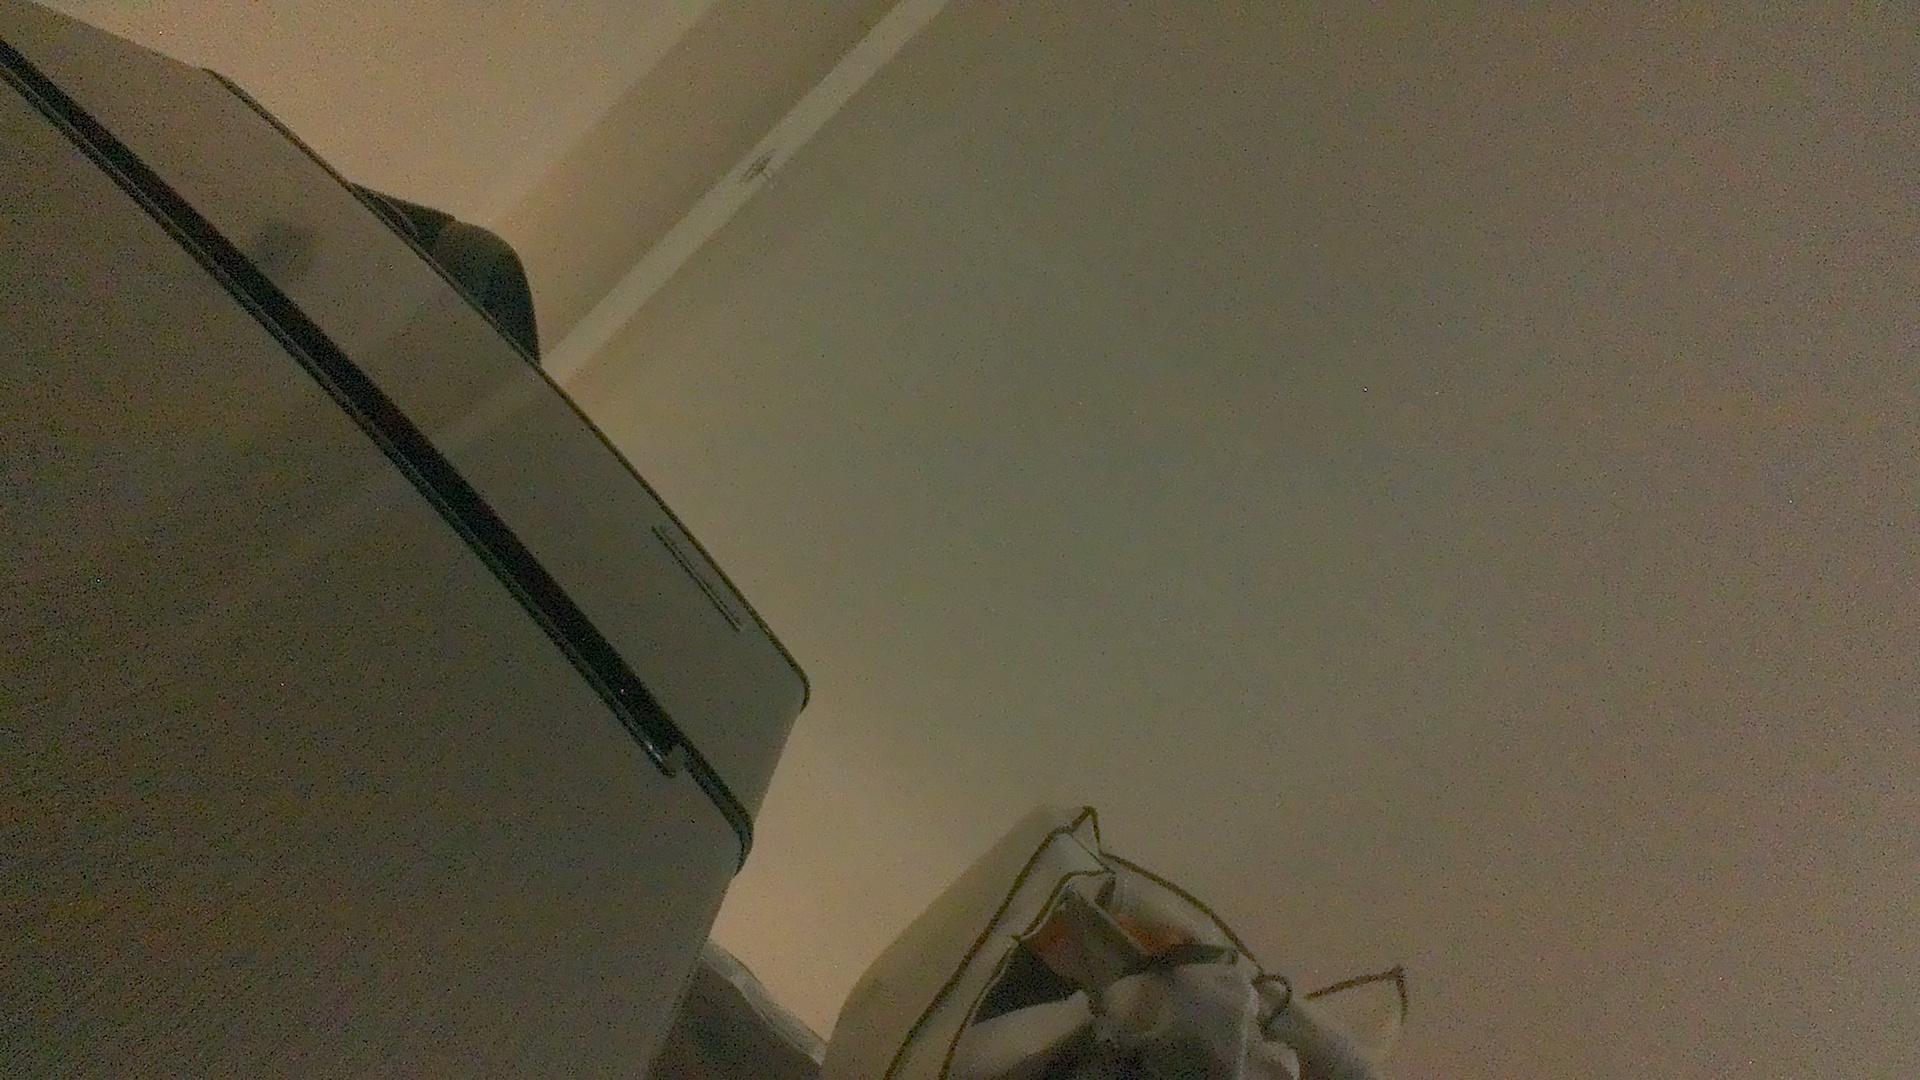
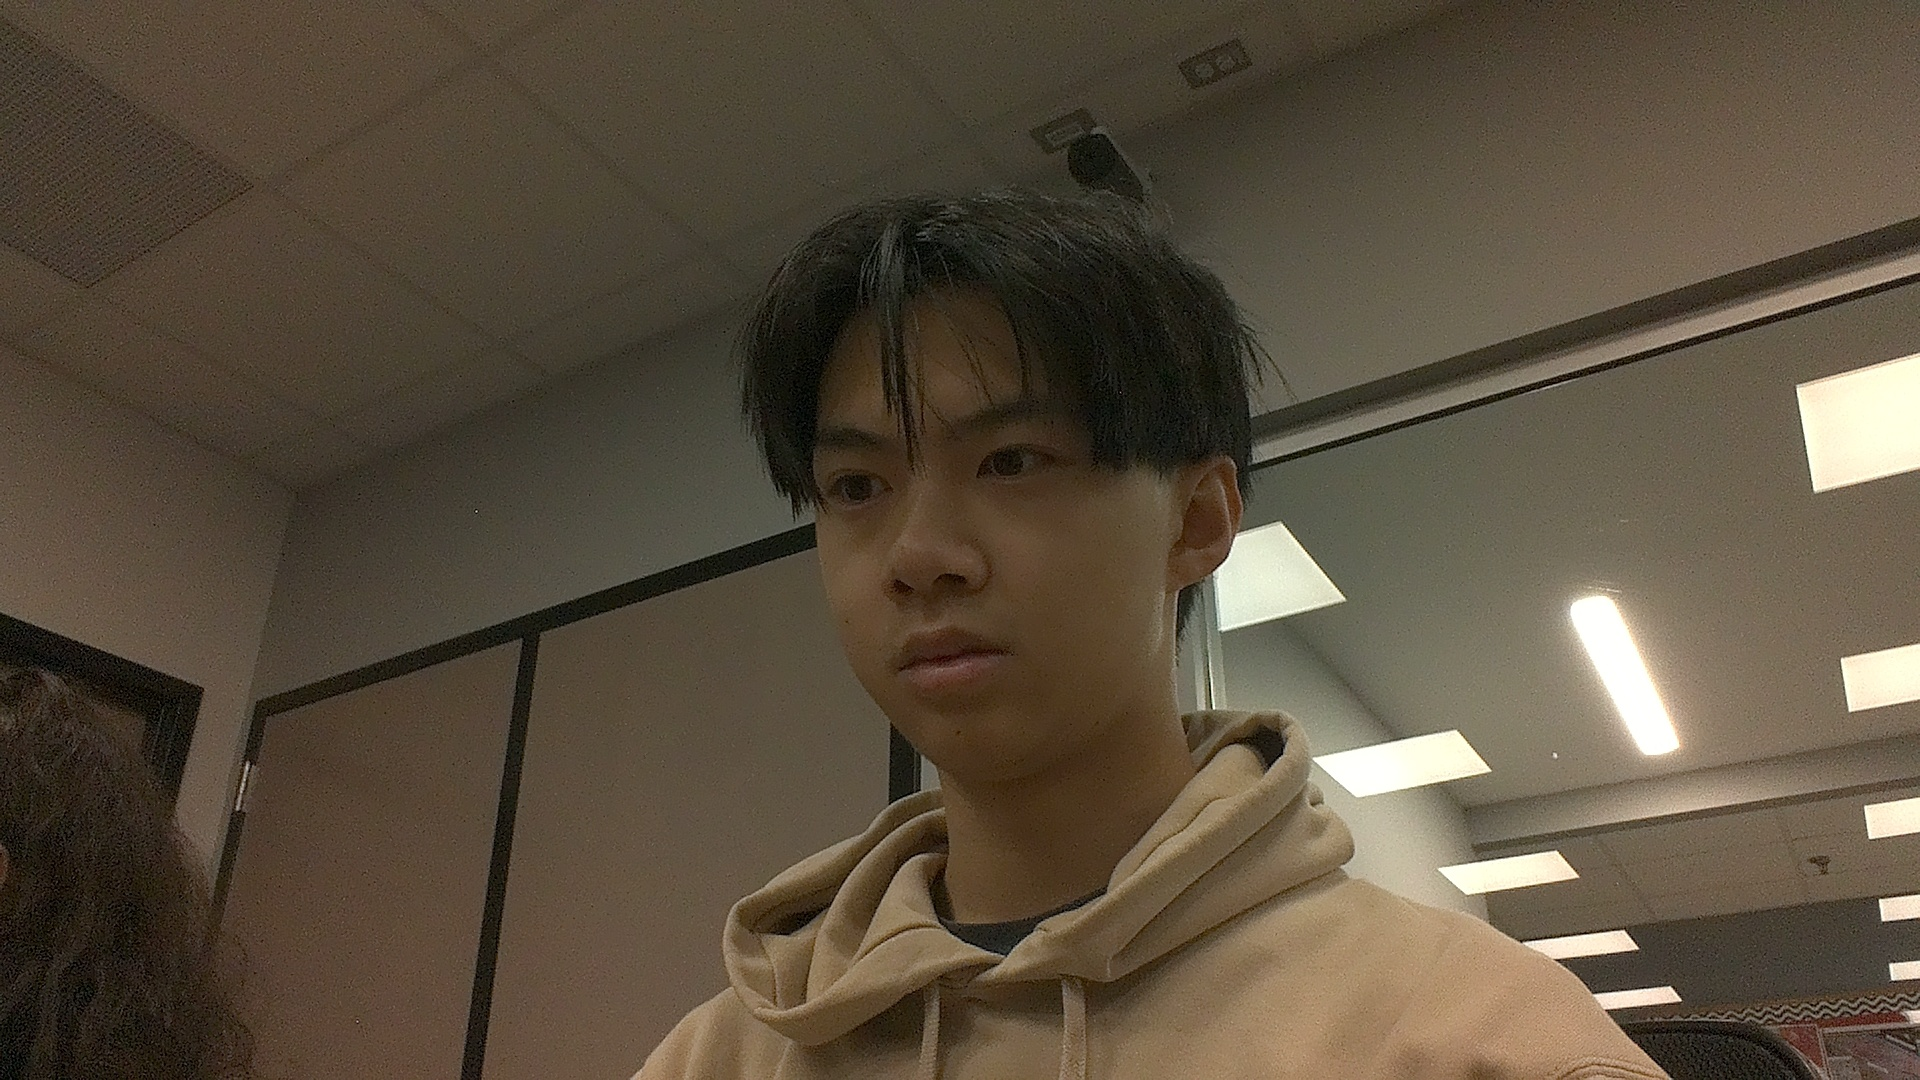
lab07

diff --git a/lab07/frames.py b/lab07/frames.py
@@ -1,8 +1,11 @@
 from __future__ import annotations
 
 from typing import Any, Iterable, Sequence
+import math
 
 from schema import BLACK_MAX, FLAT_SPREAD
+
+DARK_MEAN = 0.10
 
 import cv2
 import time
@@ -114,37 +117,89 @@ def grab_frame(pipeline: str, warmup_frames: int = 15) -> np.ndarray:
 ############################
 
 def frame_bytes(width: int, height: int, fmt: str) -> int:
-    pass
+    if (isinstance(width, bool) or not isinstance(width, int) or width <= 0 or
+            isinstance(height, bool) or not isinstance(height, int) or height <= 0):
+        raise FrameError("width and height must be positive integers")
+    return math.ceil(width * height * _bytes_per_pixel(fmt))
 
 
 def bytes_per_second(width: int, height: int, fmt: str, fps: float) -> float:
-    pass
+    if isinstance(fps, bool) or not isinstance(fps, (int, float)) or fps <= 0:
+        raise FrameError("fps must be positive")
+    return frame_bytes(width, height, fmt) * fps
 
 
 def frame_stats(pixels: Sequence[float] | Iterable[float]) -> dict[str, float]:
-    pass
+    values = [float(value) for value in pixels]
+    if not values:
+        raise FrameError("pixels must contain at least one value")
+
+    count = len(values)
+    mean = sum(values) / count
+    variance = sum((value - mean) ** 2 for value in values) / count
+    minimum = min(values)
+    maximum = max(values)
+    return {
+        "min": minimum,
+        "max": maximum,
+        "mean": mean,
+        "spread": maximum - minimum,
+        "sd": math.sqrt(variance),
+        "samples": float(count),
+    }
 
 
 def classify(stats: dict[str, float]) -> tuple[str, str]:
-    pass
+    required = ("max", "spread", "mean")
+    missing = [key for key in required if key not in stats]
+    if missing:
+        raise FrameError(f"stats missing required keys: {', '.join(missing)}")
+
+    maximum = stats["max"]
+    spread = stats["spread"]
+    mean = stats["mean"]
+    if maximum <= BLACK_MAX:
+        return "black", f"max {maximum:.4f} <= {BLACK_MAX:.4f}. No sensor response."
+    if spread < FLAT_SPREAD:
+        return "flat", f"spread {spread:.4f} < {FLAT_SPREAD:.2f}. No visible structure."
+    if mean < DARK_MEAN:
+        return "dark", f"mean {mean:.4f} < {DARK_MEAN:.2f}. Underexposed but structured."
+    return "scene", f"mean {mean:.4f}, spread {spread:.4f}. Exposed and structured."
 
 
 def conversion_bytes(width: int, height: int, src: str, dst: str) -> int:
-    pass
+    if str(src).lower() == str(dst).lower():
+        return 0
+    return frame_bytes(width, height, src) + frame_bytes(width, height, dst)
 
 
 def resize_bytes(src_w: int, src_h: int, dst_w: int, dst_h: int,
                  fmt: str) -> int:
-    pass
+    return frame_bytes(src_w, src_h, fmt) + frame_bytes(dst_w, dst_h, fmt)
 
 
 def normalise_bytes(width: int, height: int, channels: int = 3,
                     out_bytes: int = 4) -> int:
-    pass
+    dimensions = (width, height, channels, out_bytes)
+    if any(isinstance(value, bool) or not isinstance(value, int) or value <= 0
+           for value in dimensions):
+        raise FrameError("width, height, channels, and out_bytes must be positive integers")
+    scalar_count = width * height * channels
+    return scalar_count * (1 + out_bytes)
 
 
 def summarise_formats(width: int, height: int) -> list[dict[str, Any]]:
-    pass
+    baseline = frame_bytes(width, height, "rgb")
+    return [
+        {
+            "format": fmt,
+            "bytes_per_pixel": _bytes_per_pixel(fmt),
+            "bytes": frame_bytes(width, height, fmt),
+            "relative_to_rgb": frame_bytes(width, height, fmt) / baseline,
+            "note": FORMAT_NOTES[fmt],
+        }
+        for fmt in FORMATS
+    ]
 
 
 ###############################
